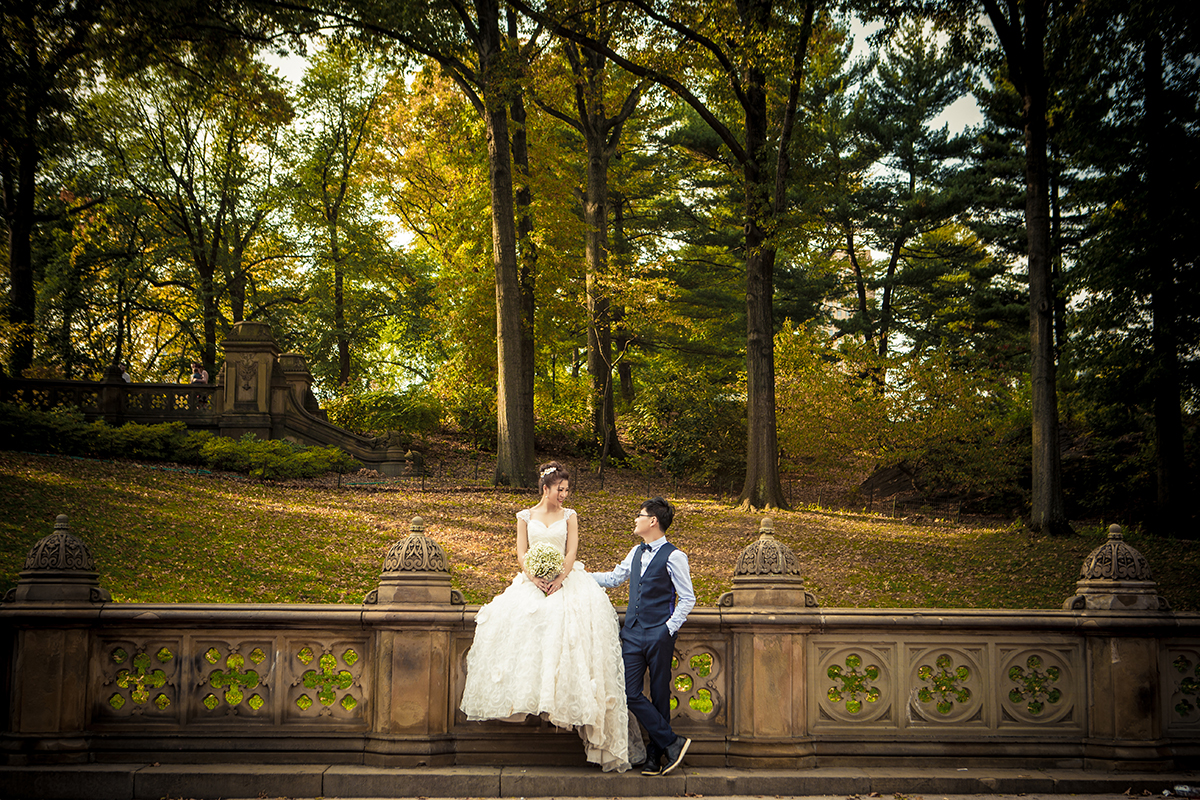
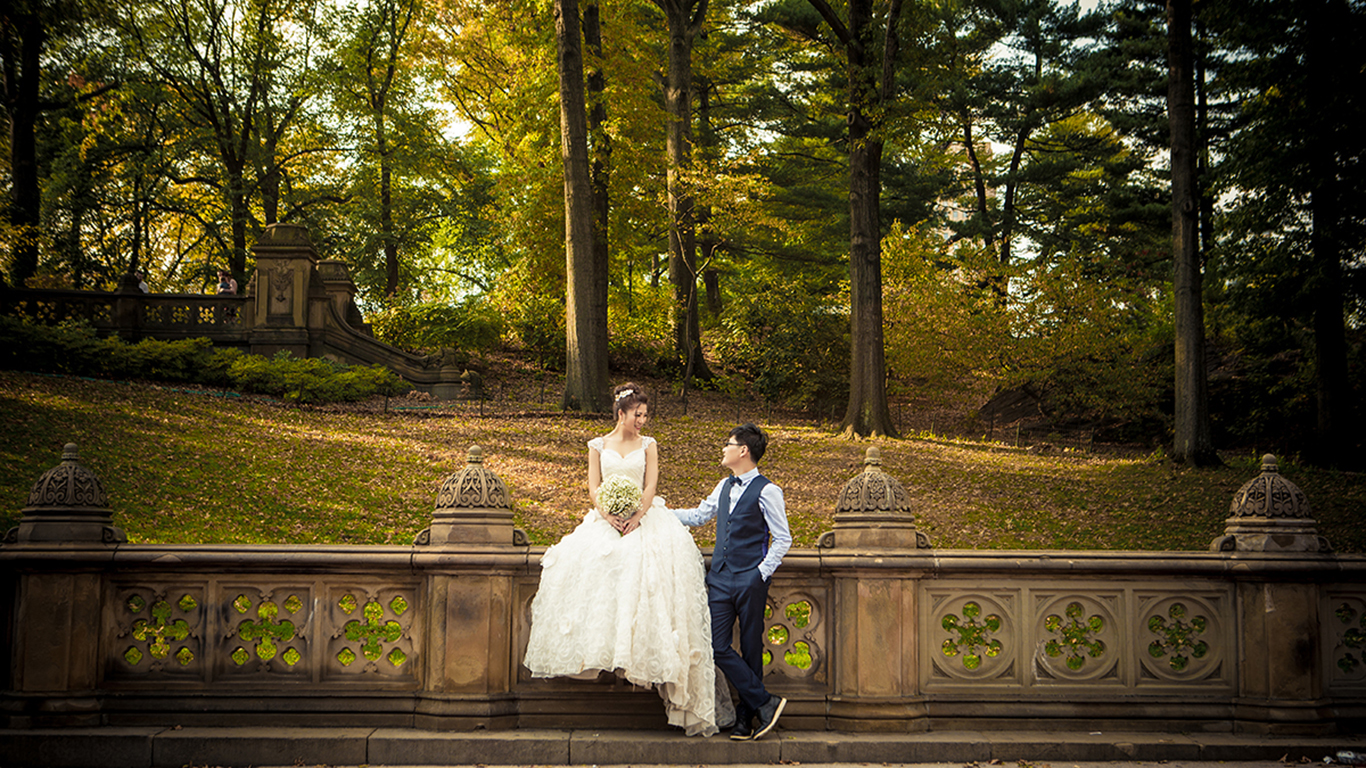
added slidshow

diff --git a/home.html b/home.html
@@ -37,16 +37,16 @@
       <div class="container">
         <h1>We Are Married!</h1>
         <div class="coverImg">
-          <!-- <img src="img/coverImg/img1.jpg">
-          <img src="img/coverImg/img2.jpg">
-          <img src="img/coverImg/img3.jpg">
-          <img src="img/coverImg/img4.jpg">
-          <img src="img/coverImg/img5.jpg">
-          <img src="img/coverImg/img6.jpg">
-          <img src="img/coverImg/img7.jpg">
-          <img src="img/coverImg/img8.jpg">
-          <img src="img/coverImg/img9.jpg"> -->
-          <img src="img/coverImg/img10.jpg">
+          <img class="mySlides" src="img/coverImg/img1.jpg">
+          <img class="mySlides" src="img/coverImg/img2.jpg">
+          <img class="mySlides" src="img/coverImg/img3.jpg">
+          <img class="mySlides" src="img/coverImg/img4.jpg">
+          <img class="mySlides" src="img/coverImg/img5.jpg">
+          <img class="mySlides" src="img/coverImg/img6.jpg">
+          <img class="mySlides" src="img/coverImg/img7.jpg">
+          <img class="mySlides" src="img/coverImg/img8.jpg">
+          <img class="mySlides" src="img/coverImg/img9.jpg">
+          <img class="mySlides" src="img/coverImg/img10.jpg">
       </div>
       </div>
     </div>
@@ -310,6 +310,7 @@
   <script type="text/javascript" src="js/bootstrap.min.js"></script>
   <script type="text/javascript" src="js/lightbox.min.js"></script>
   <script type="text/javascript" src="js/bbplayer.js"></script>
+  <script type="text/javascript" src="js/slideshow.js"></script>
  </body>
 
  </html>

diff --git a/css/index.css b/css/index.css
@@ -54,6 +54,10 @@ html, body{
     width: 100%;
 }
 
+.mySlides{
+
+}
+
 .container{
   width: 80%;
   margin: auto;
@@ -62,7 +66,7 @@ html, body{
 
 .coverImg img{
   width: 100%;
-  height: auto;
+  height: 100%;
 }
 
 .section{
@@ -109,7 +113,8 @@ html, body{
   margin-top: 100px;
 }
 
-#section1,#section2,#section3,#section4,#section5,#section6,#section7{
+#section1,
+#section2,#section3,#section4,#section5,#section6,#section7{
   overflow: auto;
 }
 

diff --git a/js/slideshow.js b/js/slideshow.js
@@ -1,0 +1,17 @@
+var index = 0;
+carousel();
+
+function carousel(){
+  var i;
+  var x = document.getElementsByClassName("mySlides");
+  for(i = 0; i <x.length; i++){
+    x[i].style.display="none";
+  }
+
+  index++;
+  if(index > x.length) {
+    index = 1;
+  }
+  x[index - 1].style.display="block";
+  setTimeout(carousel, 10000);
+}

diff --git a/css/bbplayer.css b/css/bbplayer.css
@@ -127,7 +127,7 @@ Optional styling for bbplayer elements.
 @media all and (max-width: 480px) {
 
   .bbplayer {
-    font: 200 14px/1.5 'Open Sans Condensed';
+    font: 200 14px/1.5 'Open Sans Condensed'  ;
     color: #898989;
     display: inline-block;
   }
